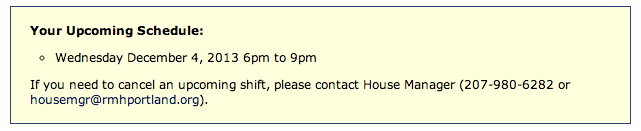
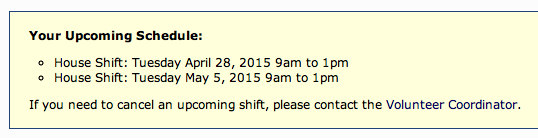
updated "About your personal home page" and "login page" help pages and related issues.

Changed region(s): [[0.0, 0.0305, 1.0, 0.9466]]

diff --git a/login_form.php b/login_form.php
@@ -32,8 +32,8 @@
         echo('<li>If you are applying for a volunteer position, enter the Username \'guest\' and a blank Password. ');
         echo('<li>If you are a volunteer logging in for the first time, your Username is your first name followed by your ten digit phone number. ' .
         'After you have logged in, you can change your password.  ');
-        echo('(If you are having difficulty logging in or if you have forgotten your Password, please contact the <a href="mailto:housemgr@rmhportland.org"><i>House Manager</i></a>.) ');
-        echo ('<li><i>If you need to cancel your volunteer shift, you may do so here (after logging in), or else you may call the House at 207-780-6282.</i>');
+        echo('(If you are having difficulty logging in or if you have forgotten your Password, please contact the <a href="mailto:jpowers@rmhprovidence.org"><i>Volunteer Coordinator</i></a>.) ');
+        echo ('<li><i>If you need to cancel your volunteer shift, you may do so here (after logging in), or else you may call the House at 401-274-4447.</i>');
         echo '</ul>';
         echo('<p><table><form method="post"><input type="hidden" name="_submit_check" value="true"><tr><td>Username:</td><td><input type="text" name="user" tabindex="1"></td></tr><tr><td>Password:</td><td><input type="password" name="pass" tabindex="2"></td></tr><tr><td colspan="2" align="center"><input type="submit" name="Login" value="Login"></td></tr></table>');
     } else {
@@ -68,20 +68,20 @@
                     echo "<script type=\"text/javascript\">window.location = \"index.php\";</script>";
                 }
                 else {
-                    echo('<div align="left"><p class="error">Error: invalid username/password<br />if you cannot remember your password, ask a house manager to reset it for you.</p><p>Access to Homebase requires a Username and a Password. <p>For guest access, enter Username <strong>guest</strong> and no Password.</p>');
+                    echo('<div align="left"><p class="error">Error: invalid username/password<br />if you cannot remember your password, ask the Volunteer Coordinator to reset it for you.</p><p>Access to Homebase requires a Username and a Password. <p>For guest access, enter Username <strong>guest</strong> and no Password.</p>');
                     echo('<p>If you are a volunteer, your Username is your first name followed by your phone number with no spaces. ' .
-                    'For instance, if your first name were John and your phone number were (207)-123-4567, ' .
-                    'then your Username would be <strong>John2071234567</strong>.  ');
-                    echo('If you do not remember your password, please contact the <a href="mailto:housemngr@rmhportlandme.org">House Manager</a>.');
+                    'For instance, if your first name were John and your phone number were (401)-123-4567, ' .
+                    'then your Username would be <strong>John4011234567</strong>.  ');
+                    echo('If you do not remember your password, please contact the <a href="mailto:jpowers@rmhprovidence.org">Volunteer Coordinator</a>.');
                     echo('<p><table><form method="post"><input type="hidden" name="_submit_check" value="true"><tr><td>Username:</td><td><input type="text" name="user" tabindex="1"></td></tr><tr><td>Password:</td><td><input type="password" name="pass" tabindex="2"></td></tr><tr><td colspan="2" align="center"><input type="submit" name="Login" value="Login"></td></tr></table>');
                 }
             } else {
                 //At this point, they failed to authenticate
-                echo('<div align="left"><p class="error">Error: invalid username/password<br />if you cannot remember your password, ask a house manager to reset it for you.</p><p>Access to Homebase requires a Username and a Password. <p>For guest access, enter Username <strong>guest</strong> and no Password.</p>');
+                echo('<div align="left"><p class="error">Error: invalid username/password<br />if you cannot remember your password, ask the Volunteer Coordinator to reset it for you.</p><p>Access to Homebase requires a Username and a Password. <p>For guest access, enter Username <strong>guest</strong> and no Password.</p>');
                 echo('<p>If you are a volunteer, your Username is your first name followed by your phone number with no spaces. ' .
-                'For instance, if your first name were John and your phone number were (207)-123-4567, ' .
-                'then your Username would be <strong>John2071234567</strong>.  ');
-                echo('If you do not remember your password, please contact the <a href="mailto:housemngr@rmhportlandme.org">House Manager</a>.');
+                'For instance, if your first name were John and your phone number were (401)-123-4567, ' .
+                'then your Username would be <strong>John4011234567</strong>.  ');
+                echo('If you do not remember your password, please contact the <a href="mailto:jpowers@rmhprovidence.org">Volunteer Coordinator</a>.');
                 echo('<p><table><form method="post"><input type="hidden" name="_submit_check" value="true"><tr><td>Username:</td><td><input type="text" name="user" tabindex="1"></td></tr><tr><td>Password:</td><td><input type="password" name="pass" tabindex="2"></td></tr><tr><td colspan="2" align="center"><input type="submit" name="Login" value="Login"></td></tr></table>');
             }
         }

diff --git a/tutorial/indexHelp.inc.php b/tutorial/indexHelp.inc.php
@@ -33,29 +33,41 @@
 	appear.
 <p>
 	<B>If you are a volunteer or a manager</B> and you've never changed
-	your password, you will see the following display: <BR> <BR> <a
+	your password, you will see the following display: <br><br><a
 		href="tutorial/screenshots/homeHelp2.png" class="image"
 		title="homeHelp2.png" target="tutorial/screenshots/homeHelp2.png">
 		&nbsp&nbsp&nbsp&nbsp<img src="tutorial/screenshots/homeHelp2.png"
 		width="10%" border="1px" rel="popover"
 		data-img="tutorial/screenshots/homeHelp2.png" align="center"> </a> <br>
-	You may change your password by entering it and then entering your new
+	<br>You may change your password by entering it and then entering your new
 	password twice. After you change your password in this way, it will be
 	known only to you. If you forget your password, please contact the
 	house manager. Until you change your password, this display continue to
 	appear here.
 <p>
 	<B>If you are a volunteer</B>, you will see a display of your upcoming
-	scheduled shifts, which looks like this: <a
+	scheduled shifts, which looks like this: &nbsp;&nbsp;&nbsp;&nbsp;<a
 		href="tutorial/screenshots/indexHelp_upcoming_shifts.png"
 		class="image" title="indexHelp_upcoming_shifts.png"
 		target="tutorial/screenshots/indexHelp_upcoming_shifts.png">
-		&nbsp&nbsp&nbsp&nbsp<img
+		&nbsp;&nbsp;&nbsp;&nbsp;<img
 		src="tutorial/screenshots/indexHelp_upcoming_shifts.png" width="10%"
 		rel="popover"
 		data-img="tutorial/screenshots/indexHelp_upcoming_shifts.png"
-		border="1px" align="center"> </a> <br> If you need to cancel a shift,
-	please call the front desk (302-656-4847).
+		border="1px" align="center"> </a> <br>If you need to cancel a shift,
+	you may also call the House at (401) 274-4447.
+	<br><br> Your volunteer home page will also contain the following link: 
+	&nbsp;&nbsp;&nbsp;&nbsp;<a
+		href="tutorial/screenshots/indexHelp_logsheet.png"
+		class="image" title="indexHelp_logsheet.png"
+		target="tutorial/screenshots/indexHelp_logsheet.png">
+		&nbsp;&nbsp;&nbsp;&nbsp;<img
+		src="tutorial/screenshots/indexHelp_logsheet.png" width="10%"
+		rel="popover"
+		data-img="tutorial/screenshots/indexHelp_logsheet.png"
+		border="1px" align="center"> </a>  
+	
+	<br>This takes you to a page where you can log your recent hours.
 <p>
 	<B>If you are a manager</B>, you will also see the following current
 	information displayed:
@@ -78,19 +90,9 @@
 		rel="popover" data-img="tutorial/screenshots/indexHelp_full_log.png"
 		border="1px" align="center"> </a> <br> This full log allows you to
 	delete some or all of its entries, once they are no longer useful.
+
 <p>
-	A list of upcoming birthdays and volunteer anniversaries, which looks
-	like this: <a
-		href="tutorial/screenshots/indexHelp_upcoming_birthdays.png"
-		class="image" title="indexHelp_upcoming_birthdays.png"
-		target="tutorial/screenshots/indexHelp_upcoming_birthdays.png">
-		&nbsp&nbsp&nbsp&nbsp<img
-		src="tutorial/screenshots/indexHelp_upcoming_birthdays.png"
-		width="10%" rel="popover"
-		data-img="tutorial/screenshots/indexHelp_upcoming_birthdays.png"
-		border="1px" align="center"> </a>
-<p>
-	A list of upcoming calendar vacancies, which looks like this: <a
+	A list of upcoming calendar vacancies: <a
 		href="tutorial/screenshots/indexHelp_upcoming_vacancies.png"
 		class="image" title="indexHelp_upcoming_vacancies.png"
 		target="tutorial/screenshots/indexHelp_upcoming_vacancies.png">
@@ -102,7 +104,7 @@
 	in this list takes you directly to that shift on the calendar, so that
 	you can examine its sub call list or other details.
 <p>
-	A list of all open applications, which looks like this: <a
+	A list of all open applications (most recent first): <a
 		href="tutorial/screenshots/indexHelp_open_applications.png"
 		class="image" title="indexHelp_open_applications.png"
 		target="tutorial/screenshots/indexHelp_open_applications.png">
@@ -112,5 +114,16 @@
 		data-img="tutorial/screenshots/indexHelp_open_applications.png"
 		border="1px" align="center"> </a> <br> An "open" application signifies
 	an applicant whose status has not yet been changed to "active". Only
-	"active" volunteers can be scheduled for a shift. <br> If an
-	application has been viewed, the link text will appear grey.
+	"active" volunteers can be scheduled for a shift.
+	
+<p>
+	A list of all active volunteers who haven't worked in the last two months: <a
+		href="tutorial/screenshots/indexHelp_inactivevolunteers.png"
+		class="image" title="indexHelp_inactivevolunteers.png"
+		target="tutorial/screenshots/indexHelp_inactivevolunteers.png">
+		&nbsp&nbsp&nbsp&nbsp<img
+		src="tutorial/screenshots/indexHelp_inactivevolunteers.png" width="10%"
+		rel="popover"
+		data-img="tutorial/screenshots/indexHelp_inactivevolunteers.png"
+		border="1px" align="center"> </a> <br> This list is helpful in identifying
+		volunteers whose status may be changed to "inactive" or "former."

diff --git a/tutorial/login.inc.php b/tutorial/login.inc.php
@@ -47,37 +47,27 @@ session_cache_expire(30);
 			<strong>guest</strong> and no Password. Once you sign in you will be
 			able to fill out and submit an application form on-line.
 		
-		
 		<p>
 			If you are a <i>volunteer or staff member</i>, your Username is your
 			first name followed by your phone number with no spaces.
 		
-		
 		<ul>
 			<li>For example, if your first name is John and your phone number is
-				(207)-123-4567, your Username would be <strong>John2071234567</strong>.
-
-
-
-			
+				(401)-123-4567, your Username would be <strong>John4011234567</strong>.
 			
 			<li>Remember that your Username and Password are <em>case-sensitive</em>.
-
-
-			
 			
 			<li>If you mistype your Username or Password, the following error
 				message will appear:
 				<p class="error">
 					Error: invalid username/password<br />if you cannot remember your
-					password, ask the House Manager to reset it for you.
+					password, ask the Volunteer Coordinator to reset it for you.
 				</p>
 				<p>At this point, you can retry entering your Username and Password
 					(if you think you may have mistyped them).
 			
 			<li>If all else fails, or if you do not remember your password,
-				please contact the <a href="mailto:housemgr@rmhportland.org">House
-					Manager</a>.
+				please contact the <a href="mailto:jpowers@rmhprovidence.org">Volunteer Coordinator</a>.
 		
 		</ul>
 		<p>

diff --git a/index.php b/index.php
@@ -163,7 +163,7 @@ session_cache_expire(30);
                                 echo('</ul></p></div><br>');
                         //    }
                             mysql_close();
-                        //volunteer birthdays and anniversary days
+                        /*volunteer birthdays and anniversary days
                             connect();
                             $anniv_query = "SELECT id,first_name,last_name,birthday,start_date FROM dbPersons WHERE status LIKE '%active%'";
                             $anniversaries = mysql_query($anniv_query);
@@ -185,7 +185,7 @@ session_cache_expire(30);
                                 echo('</table></p></div><br>');
                             }
                             mysql_close();
-                            
+                        */    
                         // active volunteers who haven't worked recently
                             $everyone = getall_names("active", "volunteer");
                             if ($everyone && mysql_num_rows($everyone) > 0) {

diff --git a/header.php b/header.php
@@ -31,8 +31,8 @@
     } else if ($_SESSION['logged_in']) {
 
         /*         * Set our permission array.
-         * anything a guest can do, a volunteer and house manager can also do
-         * anything a volunteer can do, a house manager can do.
+         * anything a guest can do, a volunteer and manager can also do
+         * anything a volunteer can do, a manager can do.
          *
          * If a page is not specified in the permission array, anyone logged into the system
          * can view it. If someone logged into the system attempts to access a page above their

diff --git a/tutorial/index.inc.php b/tutorial/index.inc.php
@@ -21,10 +21,6 @@ session_cache_expire(30);
 	    <a href="?helpPage=rmhp-homebase/helpPageTemplate.php">Help Page Template</a>
 	</p>
 	<ol>
-		<li><a href="?helpPage=rmhp-homebase/quickStartGuide.php">Quick Start Guide</a>
-		</li>
-		<br>
-
 		<li><a href="?helpPage=rmhp-homebase/login.php">Signing in and out of the System</a>
 		</li>
 		<br>

diff --git a/help.php b/help.php
@@ -79,7 +79,7 @@ $assocHelp['helpPageTemplate.php']='helpPageTemplate.inc.php';
 
 				
 			</div>
-		<?PHP include('footer.inc');?>
 		</div>
+		<?PHP include('footer.inc');?>
 	</body>
 </html>

diff --git a/log.php b/log.php
@@ -53,8 +53,9 @@
 				}
 				echo ('</table>');
 				?>
-				<?PHP include('footer.inc');?>
+				
 			</div>
+			<?PHP include('footer.inc');?>
 		</div>
 	</body>
 </html>
